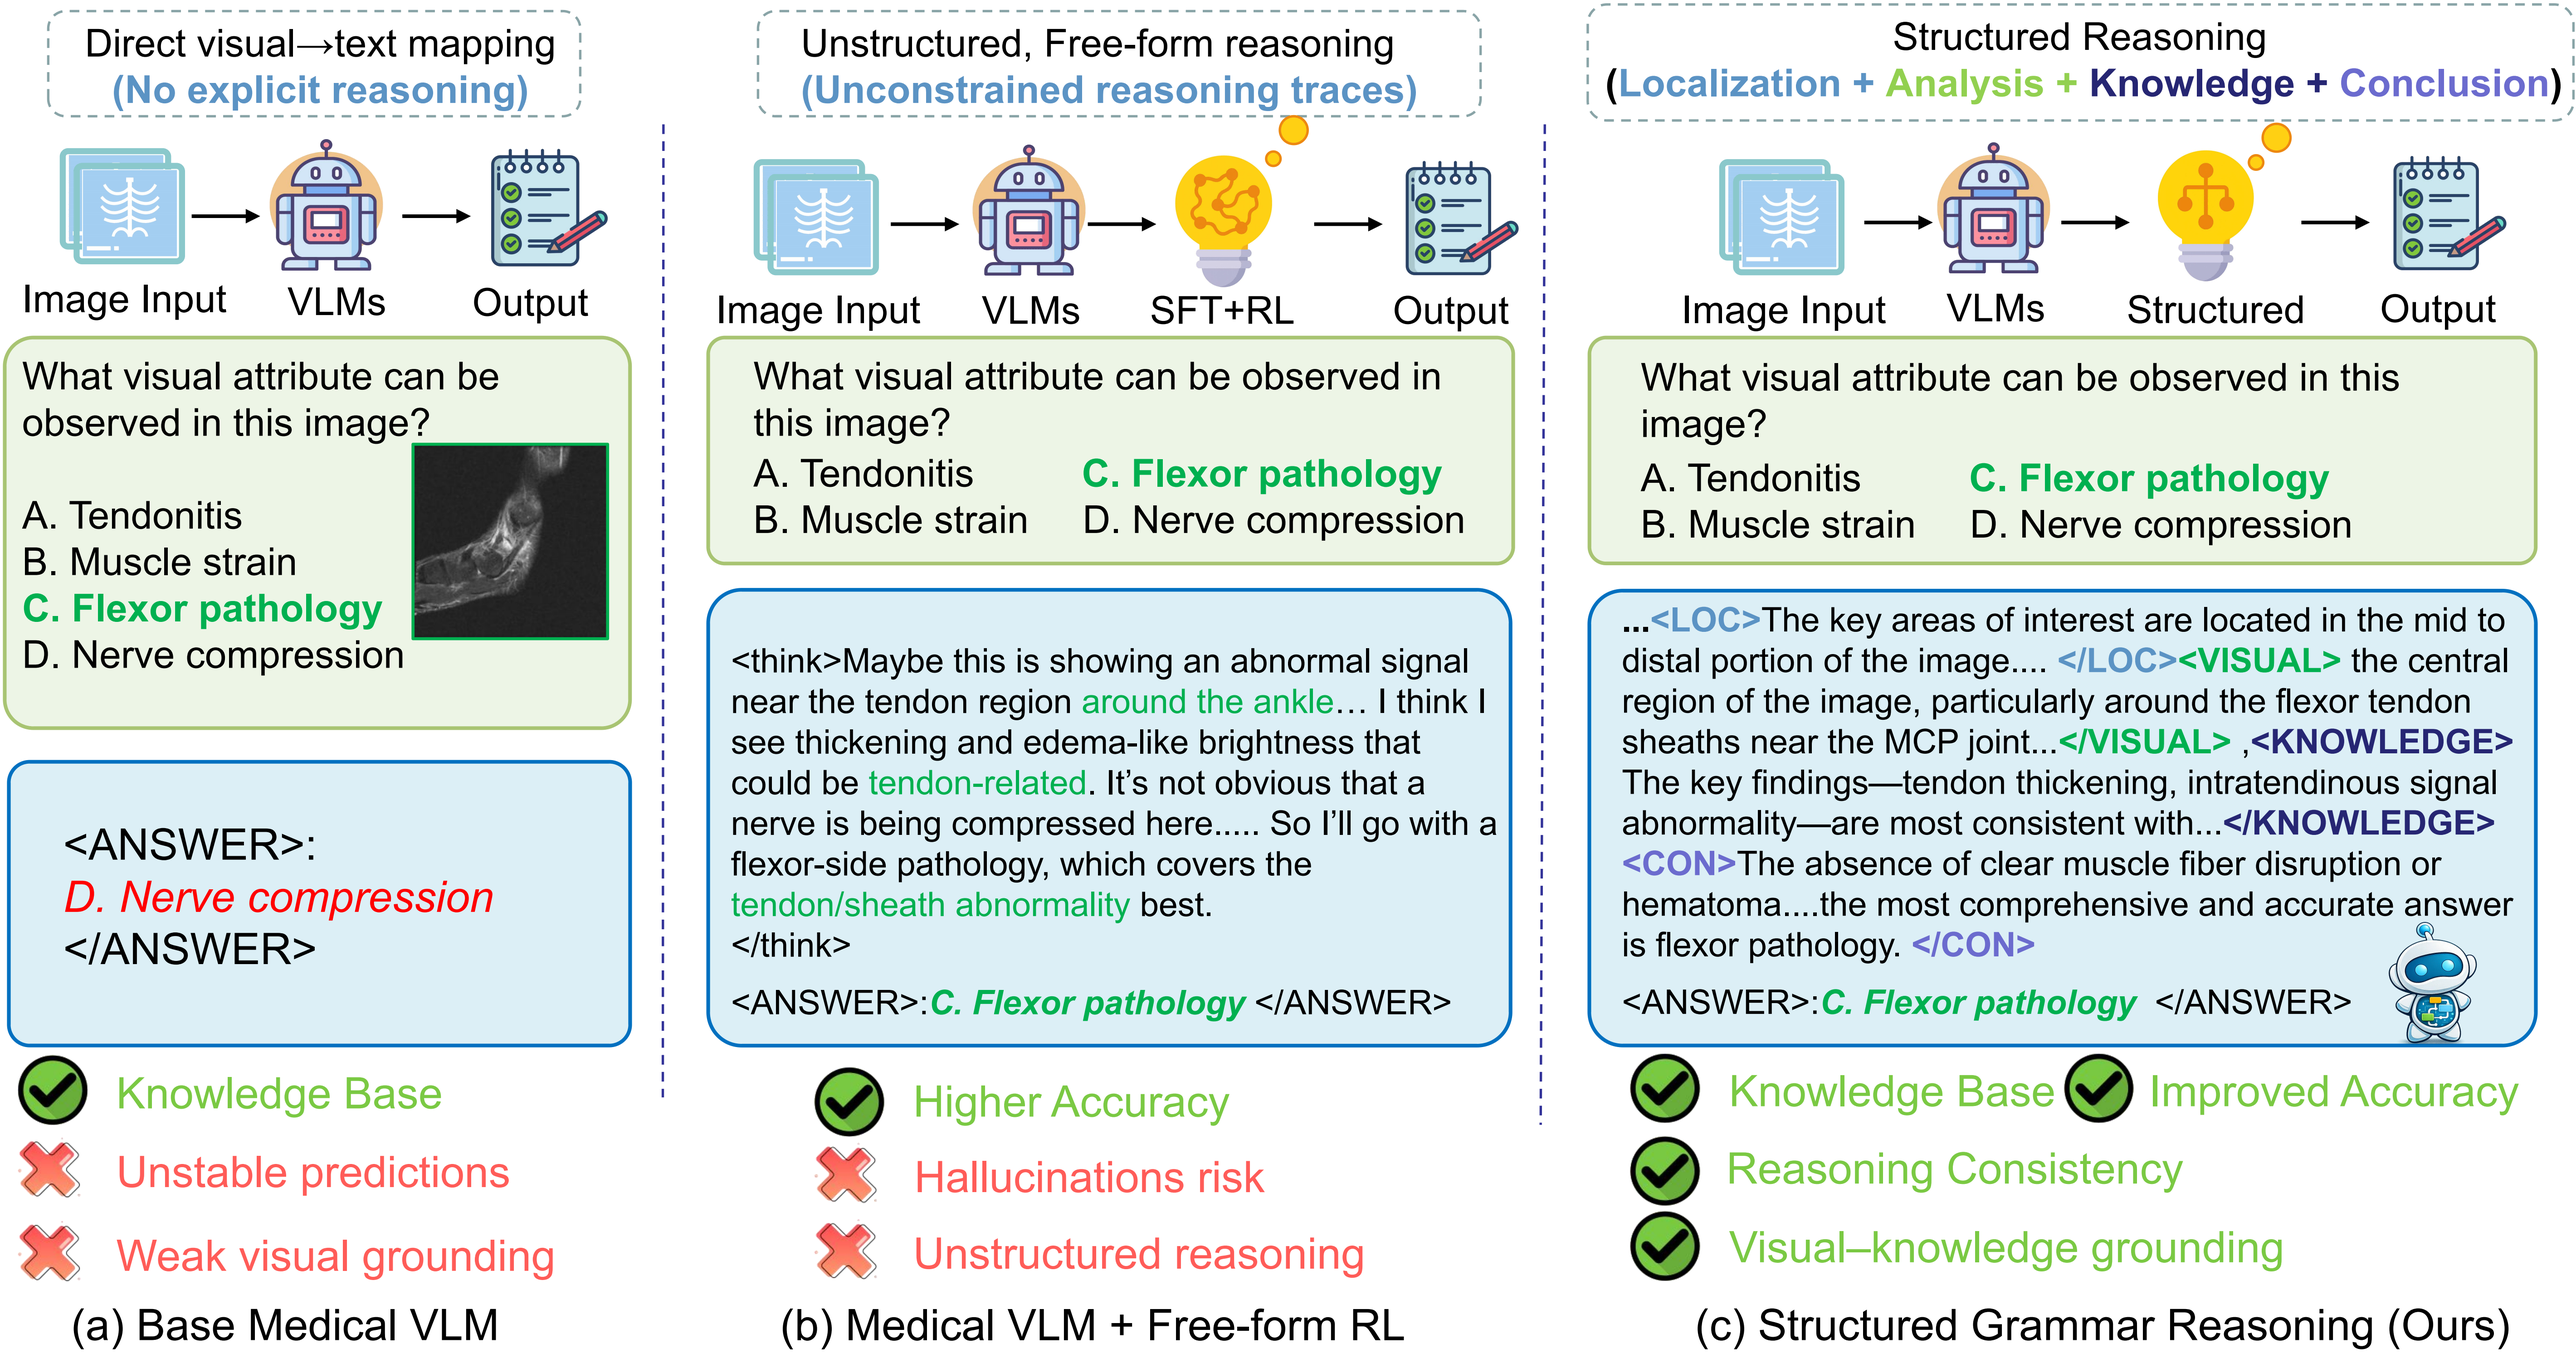
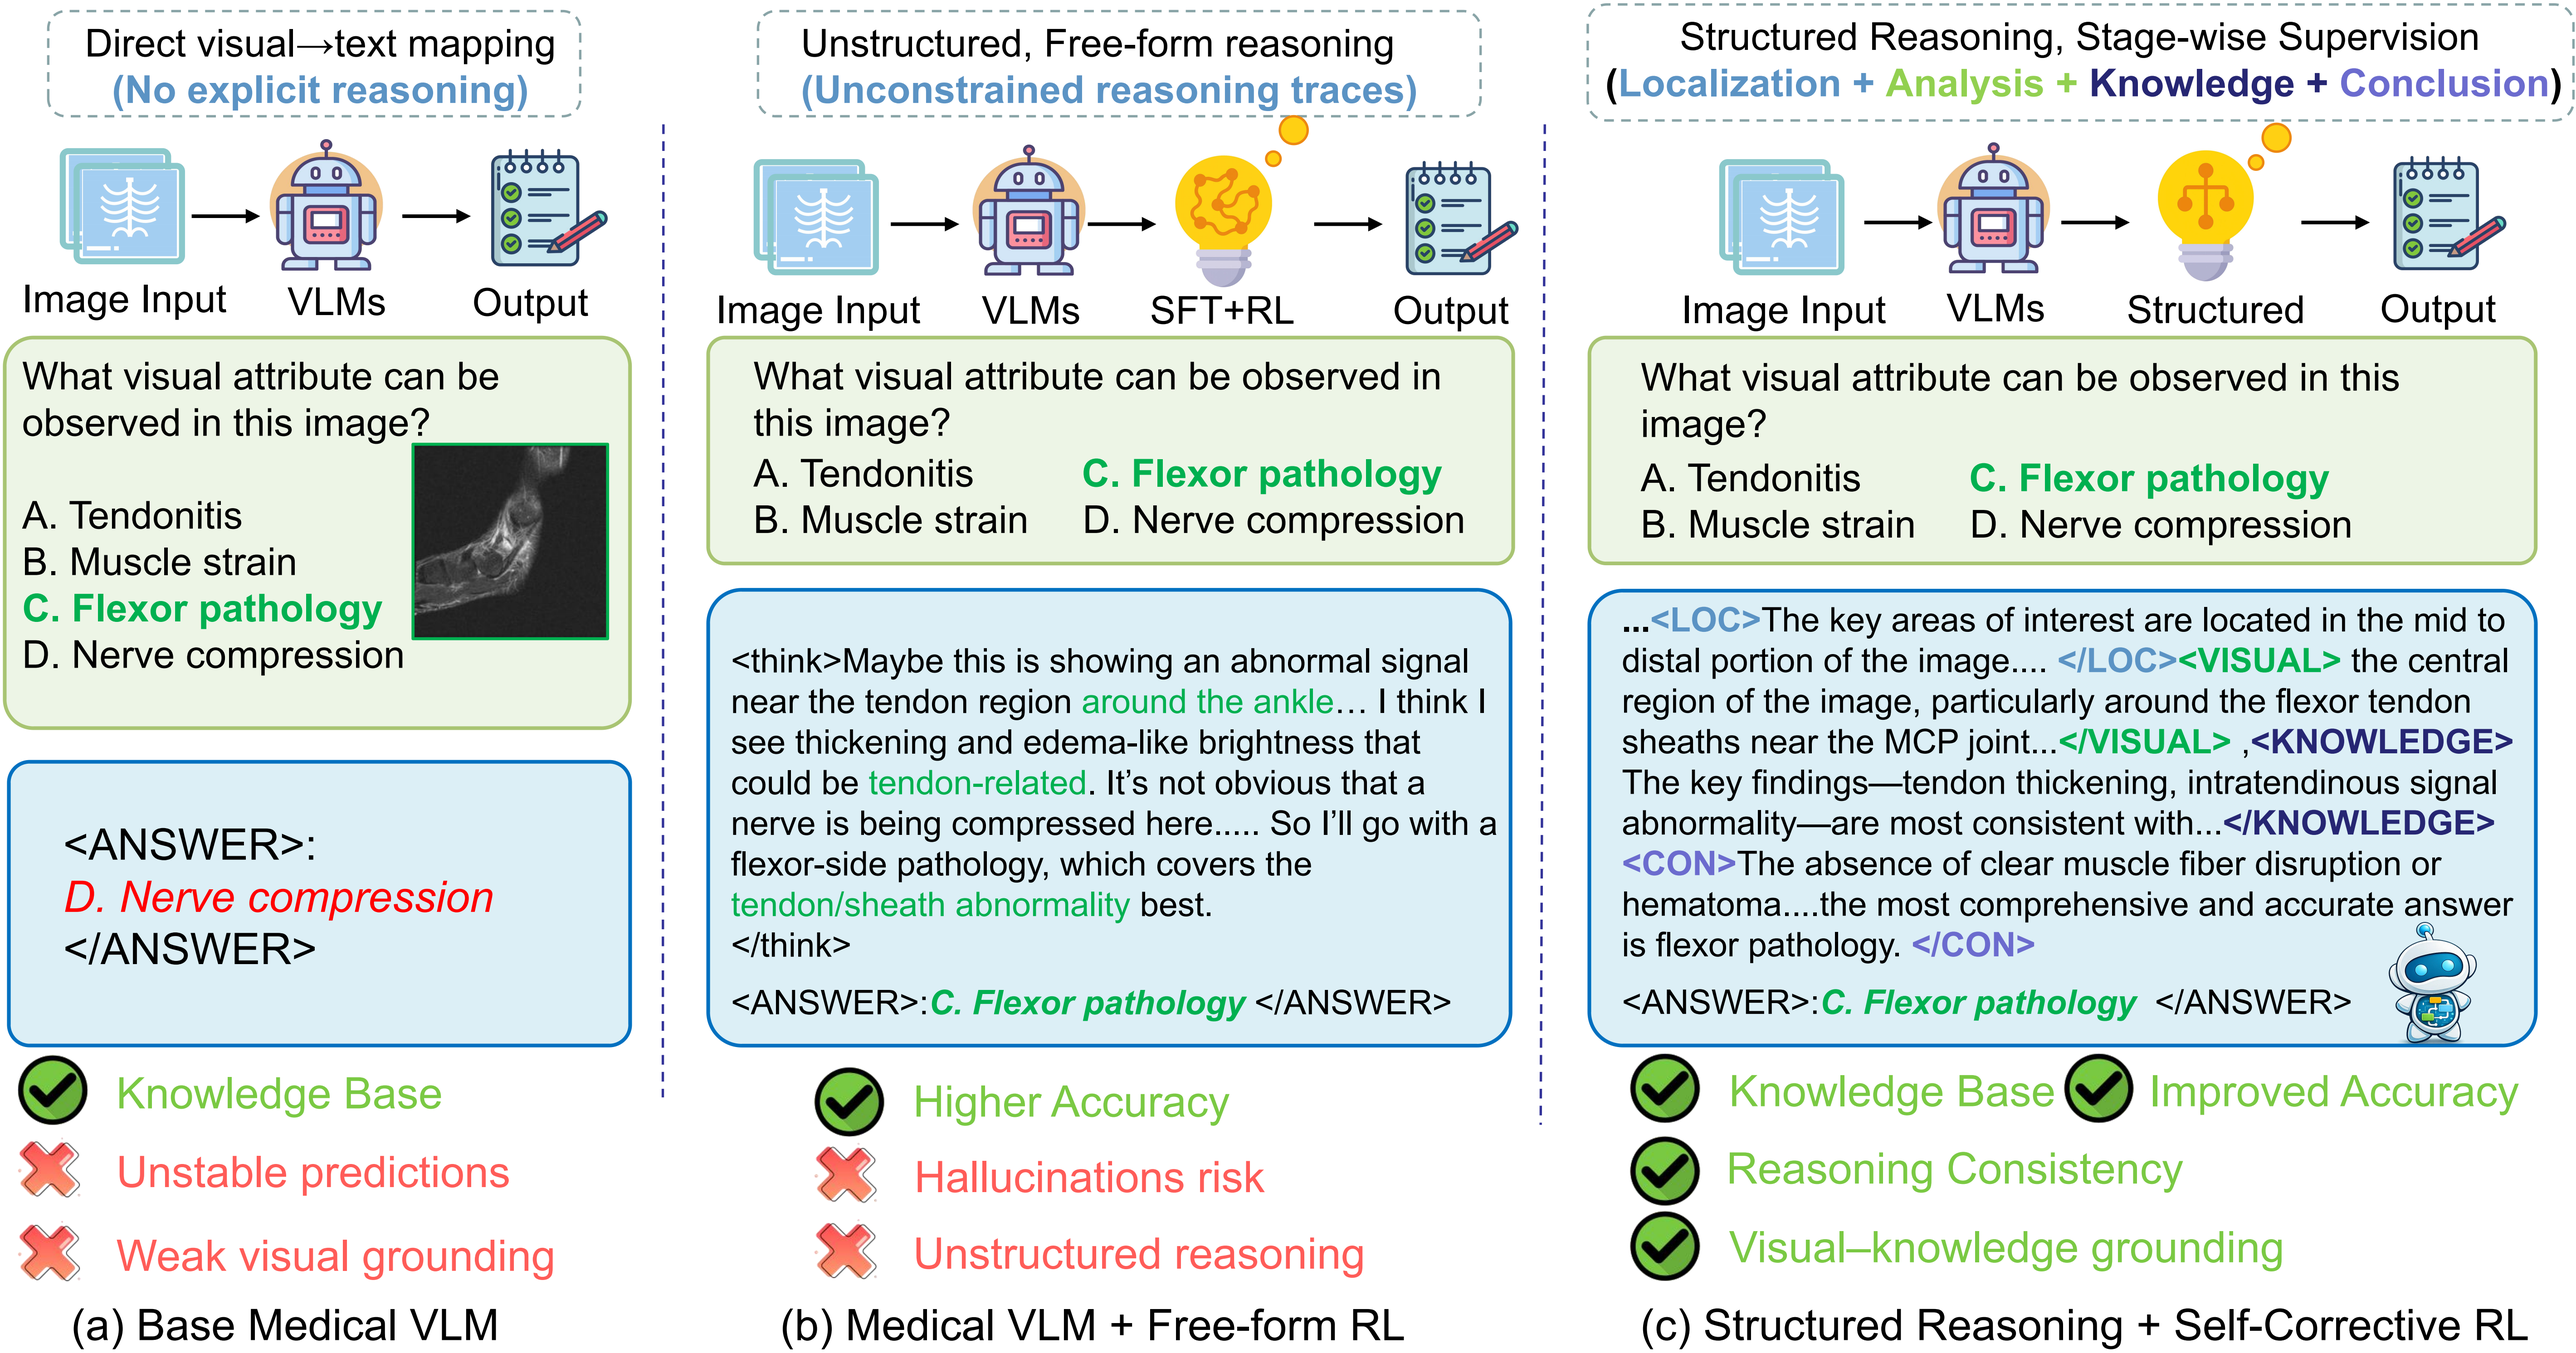
update images and hiden authors

Changed region(s): [[0.6544, 0.0, 0.966, 0.0623], [0.6232, 0.9658, 0.9972, 0.997]]

diff --git a/index.html b/index.html
@@ -8,7 +8,7 @@
   <!-- Primary Meta Tags -->
   <!-- TODO: Replace with your paper title and author names -->
   <meta name="title"
-    content="MEDSAGE: Learning Structured Medical Visual Reasoning with a Structured Reasoning Scaffold - Yiru Huo; Haoran Yu; Yichen Shi; Hongyang Wang; Changjie Luo; Yao Chen; Jianzhou Feng">
+    content="MEDSAGE: Learning Structured Medical Visual Reasoning via Self-Corrective Reinforcement Learning - Yiru Huo; Haoran Yu; Yichen Shi; Hongyang Wang; Changjie Luo; Yao Chen; Jianzhou Feng">
   <!-- TODO: Write a compelling 150-160 character description of your research -->
   <meta name="description"
     content="MEDSAGE brings structured localization–analysis–knowledge–decision reasoning plus SFT+RL to boost robustness, faithfulness, and accuracy across medical VQA benchmarks.">
@@ -26,7 +26,7 @@
   <meta property="og:site_name" content="School of Information Science and Engineering, Yanshan University">
   <!-- TODO: Same as paper title above -->
   <meta property="og:title"
-    content="MEDSAGE: Learning Structured Medical Visual Reasoning with a Structured Reasoning Scaffold">
+    content="MEDSAGE: Learning Structured Medical Visual Reasoning via Self-Corrective Reinforcement Learning">
   <!-- TODO: Same as description above -->
   <meta property="og:description"
     content="MEDSAGE brings structured localization–analysis–knowledge–decision reasoning plus SFT+RL to boost robustness, faithfulness, and accuracy across medical VQA benchmarks.">
@@ -37,7 +37,7 @@
   <meta property="og:image:width" content="1200">
   <meta property="og:image:height" content="630">
   <meta property="og:image:alt"
-    content="MEDSAGE: Learning Structured Medical Visual Reasoning with a Structured Reasoning Scaffold - Research Preview">
+    content="MEDSAGE: Learning Structured Medical Visual Reasoning via Self-Corrective Reinforcement Learning - Research Preview">
   <meta property="article:published_time" content="2024-01-01T00:00:00.000Z">
   <meta property="article:author"
     content="Yiru Huo, Haoran Yu, Yichen Shi, Hongyang Wang, Changjie Luo, Yao Chen, Jianzhou Feng">
@@ -53,18 +53,18 @@
   <meta name="twitter:creator" content="@AUTHOR_TWITTER_HANDLE">
   <!-- TODO: Same as paper title above -->
   <meta name="twitter:title"
-    content="MEDSAGE: Learning Structured Medical Visual Reasoning with a Structured Reasoning Scaffold">
+    content="MEDSAGE: Learning Structured Medical Visual Reasoning via Self-Corrective Reinforcement Learning">
   <!-- TODO: Same as description above -->
   <meta name="twitter:description"
     content="MEDSAGE brings structured localization–analysis–knowledge–decision reasoning plus SFT+RL to boost robustness, faithfulness, and accuracy across medical VQA benchmarks.">
   <!-- TODO: Same as social preview image above -->
   <meta name="twitter:image" content="https://qaz398277.github.io/MEDSAGE/static/images/method.png">
   <meta name="twitter:image:alt"
-    content="MEDSAGE: Learning Structured Medical Visual Reasoning with a Structured Reasoning Scaffold - Research Preview">
+    content="MEDSAGE: Learning Structured Medical Visual Reasoning via Self-Corrective Reinforcement Learning - Research Preview">
 
   <!-- Academic/Research Specific -->
   <meta name="citation_title"
-    content="MEDSAGE: Learning Structured Medical Visual Reasoning with a Structured Reasoning Scaffold">
+    content="MEDSAGE: Learning Structured Medical Visual Reasoning via Self-Corrective Reinforcement Learning">
   <meta name="citation_author" content="Huo, Yiru">
   <meta name="citation_author" content="Yu, Haoran">
   <meta name="citation_author" content="Shi, Yichen">
@@ -91,7 +91,8 @@
 
 
   <!-- TODO: Replace with your paper title and authors -->
-  <title>MEDSAGE: Learning Structured Medical Visual Reasoning with a Structured Reasoning Scaffold - Huo, Yu, Shi,
+  <title>MEDSAGE: Learning Structured Medical Visual Reasoning via Self-Corrective Reinforcement Learning - Huo, Yu,
+    Shi,
     Wang, Luo, Chen, Feng | Academic Research</title>
 
   <!-- Favicon and App Icons -->
@@ -135,7 +136,7 @@
   {
     "@context": "https://schema.org",
     "@type": "ScholarlyArticle",
-    "headline": "MEDSAGE: Learning Structured Medical Visual Reasoning with a Structured Reasoning Scaffold",
+    "headline": "MEDSAGE: Learning Structured Medical Visual Reasoning via Self-Corrective Reinforcement Learning",
     "description": "MEDSAGE brings structured localization–analysis–knowledge–decision reasoning plus SFT+RL to boost robustness, faithfulness, and accuracy across medical VQA benchmarks.",
     "author": [
       {
@@ -257,8 +258,7 @@
               <!-- TODO: Replace with your paper title -->
               <h1 class="title is-1 publication-title">MEDSAGE: Learning Structured Medical Visual Reasoning with a
                 Structured Reasoning Scaffold</h1>
-              <div class="is-size-5 publication-authors">
-                <!-- TODO: Replace with your paper authors and their personal links -->
+              <!-- <div class="is-size-5 publication-authors">
                 <span class="author-block">
                   <a href="FIRST AUTHOR PERSONAL LINK" target="_blank">Yiru Huo</a><sup>1,2,3</sup><sup>*</sup>,</span>
                 <span class="author-block">
@@ -278,7 +278,6 @@
               </div>
 
               <div class="is-size-5 publication-authors">
-                <!-- TODO: Replace with your institution and conference/journal info -->
                 <span class="author-block"><sup>1</sup>School of Information Science and Engineering, Yanshan
                   University</span>
                 <span class="author-block"><sup>2</sup>The Key Laboratory for Software Engineering of Hebei
@@ -290,9 +289,8 @@
                 <span class="author-block"><sup>6</sup>Eastern Institute of Technology</span>
                 <br>
                 <span>ACL 2026</span>
-                <!-- TODO: Remove this line if no equal contribution -->
                 <span class="eql-cntrb"><small><br><sup>*</sup>Indicates Equal Contribution</small></span>
-              </div>
+              </div> -->
 
               <div class="column has-text-centered">
                 <div class="publication-links">
@@ -403,7 +401,7 @@
                 <span style="color: gray;">gray</span> numbers indicate that the model has been trained on the
                 corresponding dataset.
                 MEDSAGE achieves the best overall performance among open-source models with an average accuracy of
-                69.8%, consistently outperforming both general-purpose baselines (e.g., Qwen2.5-VL) and existing
+                68.8%, consistently outperforming both general-purpose baselines (e.g., Qwen2.5-VL) and existing
                 medical-specific VLMs.
                 Notably, it surpasses the reasoning-oriented MedVLM-R1 by a significant margin (&sim;19%) and
                 demonstrates superior robustness on radiology-focused datasets, such as achieving 79.8% on SLAKE and
